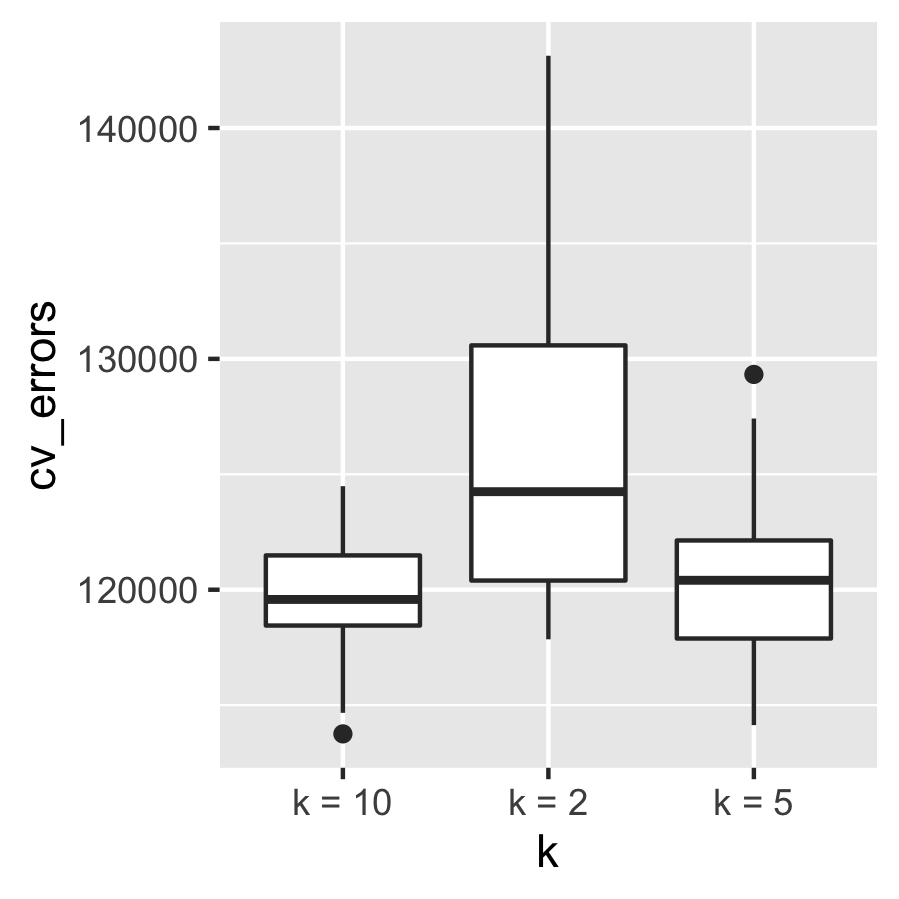
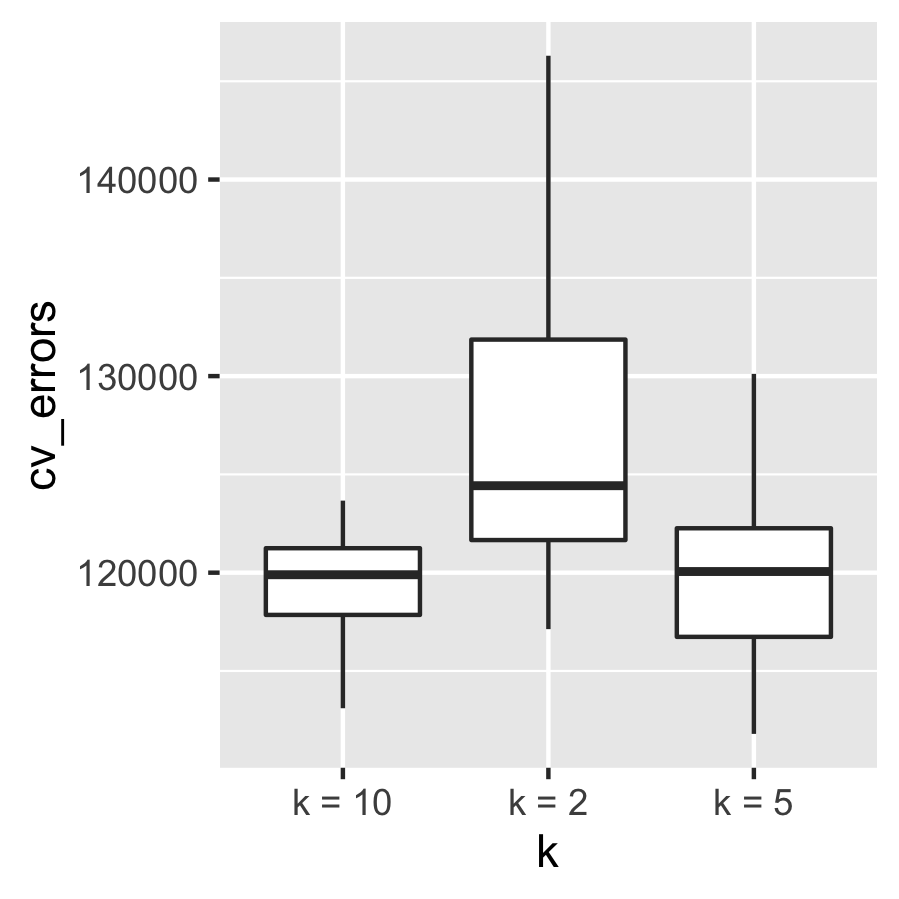
Update save rds

diff --git a/Analysis/tutorial.html b/Analysis/tutorial.html
@@ -409,7 +409,7 @@ code > span.er { color: #a61717; background-color: #e3d2d2; }
 <span id="cb2-23"><a href="#cb2-23"></a></span>
 <span id="cb2-24"><a href="#cb2-24"></a>p &lt;-<span class="st"> </span><span class="kw">ggplot</span>(my_df, <span class="kw">aes</span>(<span class="dt">x =</span> k, <span class="dt">y =</span> cv_errors)) <span class="op">+</span><span class="st"> </span><span class="kw">geom_boxplot</span>()</span>
 <span id="cb2-25"><a href="#cb2-25"></a>p</span></code></pre></div>
[2 lines of base64/hex data omitted]
 <div class="sourceCode" id="cb3"><pre class="sourceCode r"><code class="sourceCode r"><span id="cb3-1"><a href="#cb3-1"></a></span>
 <span id="cb3-2"><a href="#cb3-2"></a><span class="co">#create a table for mean and standard deviation of every groups of cv errors</span></span>
 <span id="cb3-3"><a href="#cb3-3"></a>cv_table &lt;-<span class="st"> </span><span class="kw">matrix</span>(<span class="kw">c</span>(<span class="kw">mean</span>(cv_error_<span class="dv">2</span>), <span class="kw">sd</span>(cv_error_<span class="dv">2</span>), <span class="kw">mean</span>(cv_error_<span class="dv">5</span>), <span class="kw">sd</span>(cv_error_<span class="dv">5</span>), <span class="kw">mean</span>(cv_error_<span class="dv">10</span>), <span class="kw">sd</span>(cv_error_<span class="dv">10</span>)), <span class="dt">ncol=</span><span class="dv">2</span>, <span class="dt">byrow=</span><span class="ot">TRUE</span>)</span>
@@ -419,16 +419,16 @@ code > span.er { color: #a61717; background-color: #e3d2d2; }
 <span id="cb3-7"><a href="#cb3-7"></a>cv_table &lt;-<span class="st"> </span><span class="kw">as.table</span>(cv_table)</span>
 <span id="cb3-8"><a href="#cb3-8"></a>cv_table</span>
 <span id="cb3-9"><a href="#cb3-9"></a><span class="co">#&gt;              mean         sd</span></span>
-<span id="cb3-10"><a href="#cb3-10"></a><span class="co">#&gt; k = 2  125391.264   6531.695</span></span>
-<span id="cb3-11"><a href="#cb3-11"></a><span class="co">#&gt; k = 5  120557.670   3465.159</span></span>
-<span id="cb3-12"><a href="#cb3-12"></a><span class="co">#&gt; k = 10 119643.975   2674.563</span></span>
+<span id="cb3-10"><a href="#cb3-10"></a><span class="co">#&gt; k = 2  126394.663   6559.965</span></span>
+<span id="cb3-11"><a href="#cb3-11"></a><span class="co">#&gt; k = 5  119940.196   4219.619</span></span>
+<span id="cb3-12"><a href="#cb3-12"></a><span class="co">#&gt; k = 10 119663.309   2300.136</span></span>
 <span id="cb3-13"><a href="#cb3-13"></a></span>
 <span id="cb3-14"><a href="#cb3-14"></a><span class="kw">ggsave</span>(<span class="st">&quot;fig.png&quot;</span>, <span class="dt">plot =</span> p, <span class="dt">path =</span> <span class="st">&quot;../Output/Figures&quot;</span>)</span>
 <span id="cb3-15"><a href="#cb3-15"></a><span class="co">#&gt; Saving 3 x 3 in image</span></span>
 <span id="cb3-16"><a href="#cb3-16"></a></span>
 <span id="cb3-17"><a href="#cb3-17"></a>my_sim &lt;-<span class="st"> </span><span class="kw">data.frame</span>(cv_error_<span class="dv">2</span>, cv_error_<span class="dv">5</span>, cv_error_<span class="dv">10</span>)</span>
 <span id="cb3-18"><a href="#cb3-18"></a><span class="kw">colnames</span>(my_sim) =<span class="st"> </span><span class="kw">c</span>(<span class="st">&quot;k = 2&quot;</span>, <span class="st">&quot;k = 5&quot;</span>, <span class="st">&quot;k = 10&quot;</span>)</span>
-<span id="cb3-19"><a href="#cb3-19"></a><span class="kw">saveRDS</span>(cv_table, <span class="dt">file =</span> <span class="st">&quot;../Output/Results/cv_table.rds&quot;</span>)</span>
+<span id="cb3-19"><a href="#cb3-19"></a><span class="kw">save</span>(cv_table, <span class="dt">file =</span> <span class="st">&quot;../Output/Results/cv_table.rds&quot;</span>)</span>
 <span id="cb3-20"><a href="#cb3-20"></a><span class="co">#store simulation results</span></span>
 <span id="cb3-21"><a href="#cb3-21"></a><span class="kw">write.csv</span>(my_sim, <span class="dt">file =</span> <span class="st">&quot;../Output/Results/sim.csv&quot;</span>)</span></code></pre></div>
 <p>From the table, I found that k = 2 has both highest mean and variance of cv error. k = 5 and k = 10 has similar mean of cv error, while k = 5 is higher in standard deviation. From the box plot, I found k = 2 has largest box and median, which match thr result from table. k = 5 and k = 10 has similar box position and size, while k = 10 is denser than k = 5 and has lower median of cv errors.</p>
